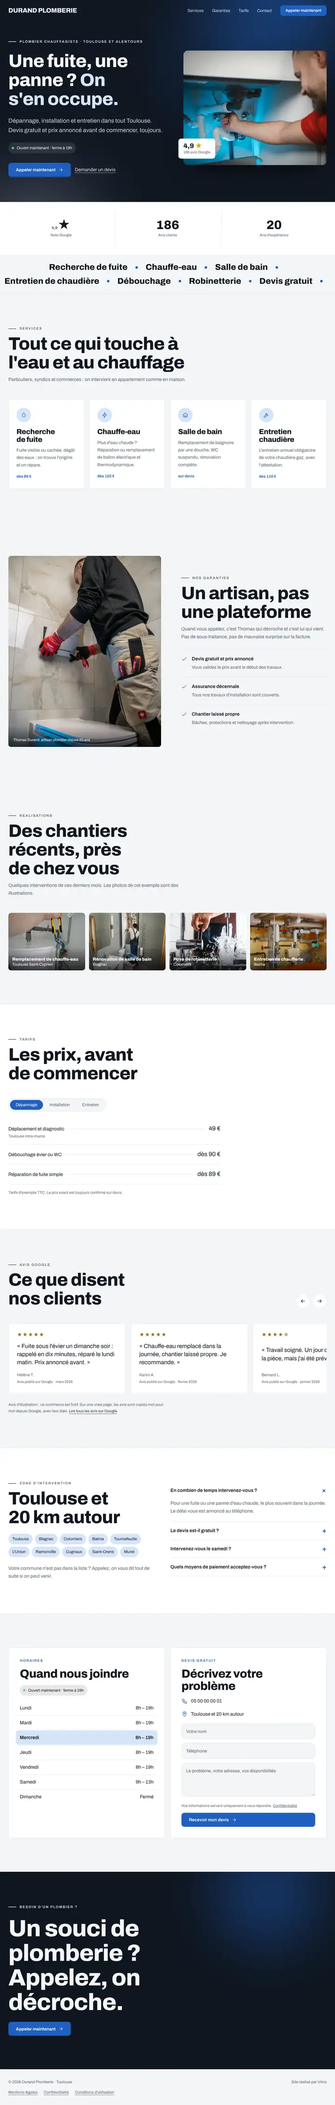
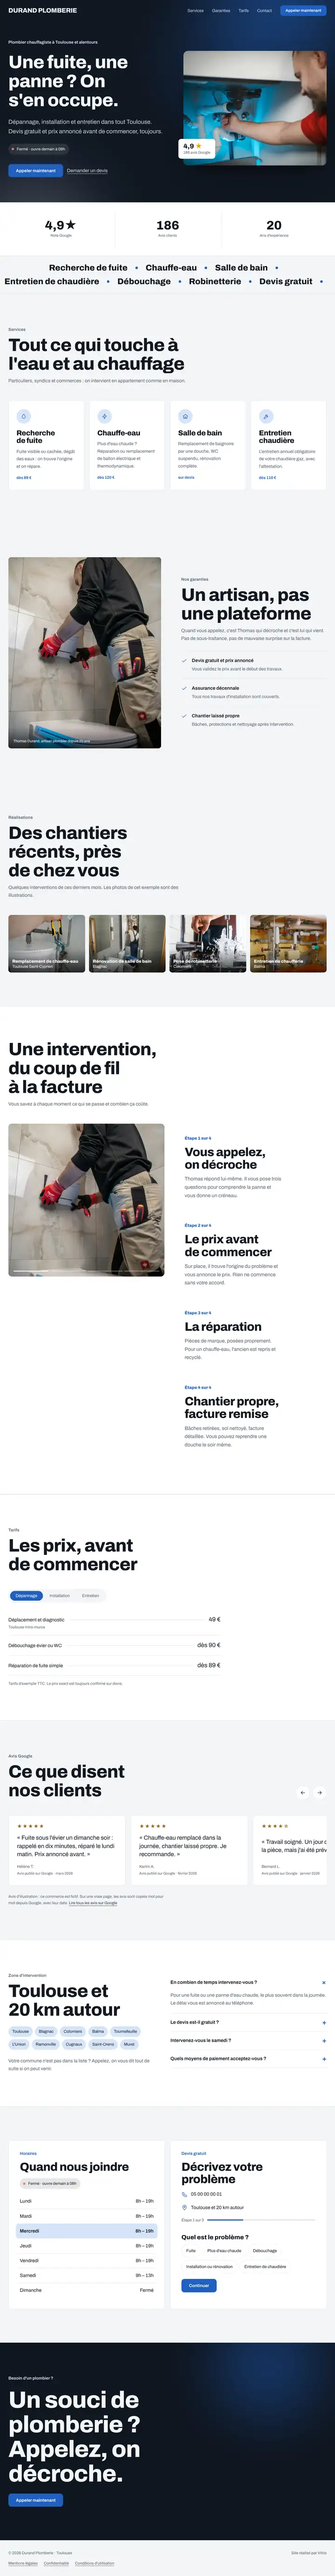
Site Vitrio : vitrine unique pour les exemples
Claude-Session: https://claude.ai/code/session_0164xHzNT7SZ8VxqTt5HAdfA

diff --git a/index.html b/index.html
@@ -22,8 +22,8 @@
 <link rel="icon" href="favicon.svg" type="image/svg+xml">
 <link rel="apple-touch-icon" href="apple-touch-icon.png"><link rel="preconnect" href="https://fonts.bunny.net">
 <link rel="stylesheet" href="https://fonts.bunny.net/css?family=archivo:400,600,800,900&display=swap">
-<link rel="stylesheet" href="style.css?v=20261118c">
-<link rel="stylesheet" href="vitrio.css?v=20261118c">
+<link rel="stylesheet" href="style.css?v=20261118e">
+<link rel="stylesheet" href="vitrio.css?v=20261118e">
 <script type="application/ld+json">{"@context":"https://schema.org","@type":"ProfessionalService","name":"Vitrio","description":"Aide les artisans et commerçants à avoir plus de clients et de demandes de devis grâce à Google.","email":"contactfr.vitrio@gmail.com","areaServed":"FR"}</script>
 </head>
 <body>
@@ -166,26 +166,33 @@
 <section class="tarifs-wrap" id="exemples">
   <div class="wrap">
     <div class="head reveal">
-      <p class="eyebrow">Exemples</p>
       <h2>À quoi ça ressemble</h2>
-      <p>Trois exemples, pour trois métiers différents. Ces commerces sont fictifs : votre page sera faite avec vos vraies informations.</p>
+      <p>Trois exemples, pour trois métiers. Ces commerces sont fictifs : votre page sera faite avec vos vraies informations.</p>
     </div>
-    <div class="demos">
-      <a class="demo reveal" style="--d:0" href="demos/demo-salon-elegance/index.html">
-        <img class="long" src="demos/demo-salon-elegance/apercu-long.webp" alt="Aperçu de l'exemple Salon Élégance, coiffeur à Lyon" width="720" height="4513" loading="lazy">
-        <span class="demo-hint" aria-hidden="true">Survolez pour faire défiler</span>
-        <span class="demo-meta"><strong>Coiffeur</strong><span>Style élégant · exemple fictif</span></span>
-      </a>
-      <a class="demo reveal" style="--d:1" href="demos/demo-table-de-margot/index.html">
-        <img class="long" src="demos/demo-table-de-margot/apercu-long.webp" alt="Aperçu de l'exemple La Table de Margot, bistrot à Bordeaux" width="720" height="4450" loading="lazy">
-        <span class="demo-hint" aria-hidden="true">Survolez pour faire défiler</span>
-        <span class="demo-meta"><strong>Restaurant</strong><span>Style chaleureux · exemple fictif</span></span>
-      </a>
-      <a class="demo reveal" style="--d:2" href="demos/demo-durand-plomberie/index.html">
-        <img class="long" src="demos/demo-durand-plomberie/apercu-long.webp" alt="Aperçu de l'exemple Durand Plomberie, plombier à Toulouse" width="720" height="4521" loading="lazy">
-        <span class="demo-hint" aria-hidden="true">Survolez pour faire défiler</span>
-        <span class="demo-meta"><strong>Plombier</strong><span>Style solide · exemple fictif</span></span>
-      </a>
+    <div class="vitrine reveal" data-vitrine>
+      <div class="vt-tabs" role="tablist" aria-label="Exemples de pages">
+        <button type="button" role="tab" id="vt-coiffeur" aria-controls="vp-coiffeur" aria-selected="true"><span>Coiffeur</span><i aria-hidden="true"></i></button>
+        <button type="button" role="tab" id="vt-restaurant" aria-controls="vp-restaurant" aria-selected="false" tabindex="-1"><span>Restaurant</span><i aria-hidden="true"></i></button>
+        <button type="button" role="tab" id="vt-plombier" aria-controls="vp-plombier" aria-selected="false" tabindex="-1"><span>Plombier</span><i aria-hidden="true"></i></button>
+      </div>
+      <div class="vt-window">
+        <div class="vt-bar" aria-hidden="true"><b></b><b></b><b></b><span></span></div>
+        <div class="vt-stage">
+        <div class="vt-panel on" role="tabpanel" id="vp-coiffeur" aria-labelledby="vt-coiffeur">
+          <img src="demos/demo-salon-elegance/apercu-long.webp" alt="Aperçu de l'exemple Salon Élégance, coiffeur à Lyon" width="720" height="5457" loading="lazy">
+          <p class="vt-cap"><span>Salon Élégance, Lyon · exemple fictif</span><a class="text-link" href="demos/demo-salon-elegance/index.html">Ouvrir l'exemple en entier</a></p>
+        </div>
+        <div class="vt-panel" role="tabpanel" id="vp-restaurant" aria-labelledby="vt-restaurant" hidden>
+          <img src="demos/demo-table-de-margot/apercu-long.webp" alt="Aperçu de l'exemple La Table de Margot, bistrot à Bordeaux" width="720" height="5313" loading="lazy">
+          <p class="vt-cap"><span>La Table de Margot, Bordeaux · exemple fictif</span><a class="text-link" href="demos/demo-table-de-margot/index.html">Ouvrir l'exemple en entier</a></p>
+        </div>
+        <div class="vt-panel" role="tabpanel" id="vp-plombier" aria-labelledby="vt-plombier" hidden>
+          <img src="demos/demo-durand-plomberie/apercu-long.webp" alt="Aperçu de l'exemple Durand Plomberie, plombier à Toulouse" width="720" height="5530" loading="lazy">
+          <p class="vt-cap"><span>Durand Plomberie, Toulouse · exemple fictif</span><a class="text-link" href="demos/demo-durand-plomberie/index.html">Ouvrir l'exemple en entier</a></p>
+        </div>
+        </div>
+      </div>
+      <button type="button" class="vt-pause text-link" data-vt-pause aria-pressed="false">Mettre en pause</button>
     </div>
   </div>
 </section>
@@ -392,7 +399,7 @@
 
 
 <script>window.SITE = { horaires: {}, mesure: null };</script>
-<script src="site.js?v=20261118c" defer></script>
-<script src="vitrio.js?v=20261118c" defer></script>
+<script src="site.js?v=20261118e" defer></script>
+<script src="vitrio.js?v=20261118e" defer></script>
 </body>
 </html>

diff --git a/vitrio.js b/vitrio.js
@@ -190,11 +190,64 @@
     f.addEventListener('submit', e => e.preventDefault());
     run();
   });
-  // Exemples sur téléphone : la page défile toute seule dans la vignette quand elle apparaît
-  if (!fine && !reduce && 'IntersectionObserver' in window) {
-    const io = new IntersectionObserver(es => es.forEach(e => {
-      e.target.classList.toggle('pan', e.isIntersecting);
-    }), { threshold: .6 });
-    $$('.demo img.long').forEach(im => io.observe(im));
-  }
+  // Vitrine des exemples : un seul exemple affiché ; il défile quand il est devant le visiteur, puis passe au suivant
+  $$('[data-vitrine]').forEach(v => {
+    const tabs = $$('[role="tab"]', v), panels = $$('.vt-panel', v), pauseBtn = $('[data-vt-pause]', v);
+    const DUR = 11000;
+    let cur = 0, visible = false, paused = false, timer = 0, t0 = 0, raf = 0;
+    const img = i => $('img', panels[i]);
+    const stopAnim = () => {
+      clearTimeout(timer); cancelAnimationFrame(raf);
+      panels.forEach((p, i) => { const im = img(i); im.classList.remove('run'); im.style.transitionDuration = ''; });
+    };
+    const progress = () => {
+      const p = Math.min(1, (performance.now() - t0) / DUR);
+      tabs[cur].style.setProperty('--vp', p.toFixed(3));
+      if (p < 1) raf = requestAnimationFrame(progress);
+    };
+    const play = () => {
+      stopAnim();
+      tabs.forEach((t, i) => t.style.setProperty('--vp', i === cur ? '0' : '0'));
+      if (reduce || paused || !visible) { tabs[cur].style.setProperty('--vp', '1'); return; }
+      const im = img(cur);
+      void im.offsetWidth;
+      im.style.setProperty('--vt-dur', DUR / 1000 + 's');
+      im.classList.add('run');
+      t0 = performance.now(); raf = requestAnimationFrame(progress);
+      timer = setTimeout(() => show((cur + 1) % panels.length), DUR + 900);
+    };
+    const show = (i, focus) => {
+      cur = i;
+      tabs.forEach((t, j) => { t.setAttribute('aria-selected', j === i); t.tabIndex = j === i ? 0 : -1; });
+      panels.forEach((p, j) => { p.classList.toggle('on', j === i); p.hidden = j !== i; });
+      if (focus) tabs[i].focus();
+      play();
+    };
+    tabs.forEach((t, i) => {
+      t.addEventListener('click', () => show(i));
+      t.addEventListener('keydown', e => {
+        if (e.key === 'ArrowRight' || e.key === 'ArrowLeft') { e.preventDefault(); show((cur + (e.key === 'ArrowRight' ? 1 : panels.length - 1)) % panels.length, true); }
+      });
+    });
+    if (pauseBtn) pauseBtn.addEventListener('click', () => {
+      paused = !paused;
+      pauseBtn.setAttribute('aria-pressed', paused);
+      pauseBtn.textContent = paused ? 'Reprendre' : 'Mettre en pause';
+      play();
+    });
+    // glisser du doigt pour changer d'exemple
+    const stage = $('.vt-stage', v);
+    let x0 = null;
+    stage.addEventListener('touchstart', e => { x0 = e.touches[0].clientX; }, { passive: true });
+    stage.addEventListener('touchend', e => {
+      if (x0 === null) return;
+      const dx = e.changedTouches[0].clientX - x0; x0 = null;
+      if (Math.abs(dx) > 50) show((cur + (dx < 0 ? 1 : panels.length - 1)) % panels.length);
+    });
+    // ne s'anime que quand la vitrine est devant le visiteur
+    if ('IntersectionObserver' in window) {
+      new IntersectionObserver(([e]) => { visible = e.isIntersecting; play(); }, { threshold: .3 }).observe(stage);
+    } else { visible = true; }
+    show(0);
+  });
 })();

diff --git a/vitrio.css b/vitrio.css
@@ -135,4 +135,33 @@
 }
 @media (prefers-reduced-motion: reduce) { .cursor { display: none; } }
 
-.demo img.long.pan { object-position: 50% 100%; transition: object-position 9s linear; }
+
+/* ===== Vitrine des exemples : un seul à la fois, celui que le visiteur regarde ===== */
+.vitrine { display: grid; gap: 16px; }
+.vt-tabs { display: grid; grid-template-columns: repeat(3, 1fr); gap: 10px; }
+.vt-tabs button { position: relative; display: grid; gap: 10px; padding: 14px 4px 0; border: 0; background: none; color: var(--c-ink-soft); font: 600 16px/1.2 var(--f-body); text-align: left; cursor: pointer; transition: color .3s; }
+.vt-tabs button[aria-selected="true"] { color: var(--c-ink); }
+.vt-tabs button:focus-visible { outline: 2px solid var(--c-accent); outline-offset: 4px; border-radius: 4px; }
+.vt-tabs i { display: block; height: 3px; border-radius: 2px; background: var(--c-line); overflow: hidden; }
+.vt-tabs i::after { content: ""; display: block; height: 100%; background: var(--c-accent); transform-origin: left; transform: scaleX(var(--vp, 0)); }
+.vt-tabs button[aria-selected="true"] i::after { transform: scaleX(var(--vp, 1)); }
+.vt-window { border-radius: calc(var(--radius) + 6px); overflow: hidden; border: 1px solid var(--c-line); background: var(--c-surface); box-shadow: 0 40px 80px -50px color-mix(in srgb, var(--c-ink) 70%, transparent); }
+.vt-bar { display: flex; align-items: center; gap: 7px; padding: 12px 16px; background: color-mix(in srgb, var(--c-line) 55%, var(--c-surface)); }
+.vt-bar b { width: 11px; height: 11px; border-radius: 50%; background: #d8dbe0; }
+.vt-bar b:nth-child(1) { background: #ff5f57; } .vt-bar b:nth-child(2) { background: #febc2e; } .vt-bar b:nth-child(3) { background: #28c840; }
+.vt-bar span { flex: 1; height: 22px; margin-left: 12px; border-radius: 11px; background: var(--c-surface); max-width: 420px; }
+.vt-stage { position: relative; aspect-ratio: 16 / 9.6; background: var(--c-hero); }
+.vt-panel { position: absolute; inset: 0; opacity: 0; transition: opacity .6s var(--ease); }
+.vt-panel.on { opacity: 1; }
+.vt-panel[hidden] { display: block; visibility: hidden; }
+.vt-panel img { width: 100%; height: 100%; object-fit: cover; object-position: 50% 0; }
+.vt-panel img.run { object-position: 50% 100%; transition: object-position var(--vt-dur, 11s) linear; }
+.vt-cap { position: absolute; left: 0; right: 0; bottom: 0; display: flex; justify-content: space-between; align-items: center; gap: 12px; flex-wrap: wrap; padding: 12px 18px; background: rgba(8, 10, 13, .9); color: #fff; font-size: 14.5px; }
+.vt-cap .text-link { color: #fff; }
+.vt-pause { justify-self: end; font-size: 14px; color: var(--c-ink); background: none; border: 0; cursor: pointer; }
+@media (max-width: 700px) {
+  .vt-stage { aspect-ratio: 4 / 5; }
+  .vt-tabs button { font-size: 14.5px; }
+  .vt-bar span { display: none; }
+}
+@media (prefers-reduced-motion: reduce) { .vt-panel img.run { transition: none; object-position: 50% 0; } .vt-pause { display: none; } }
